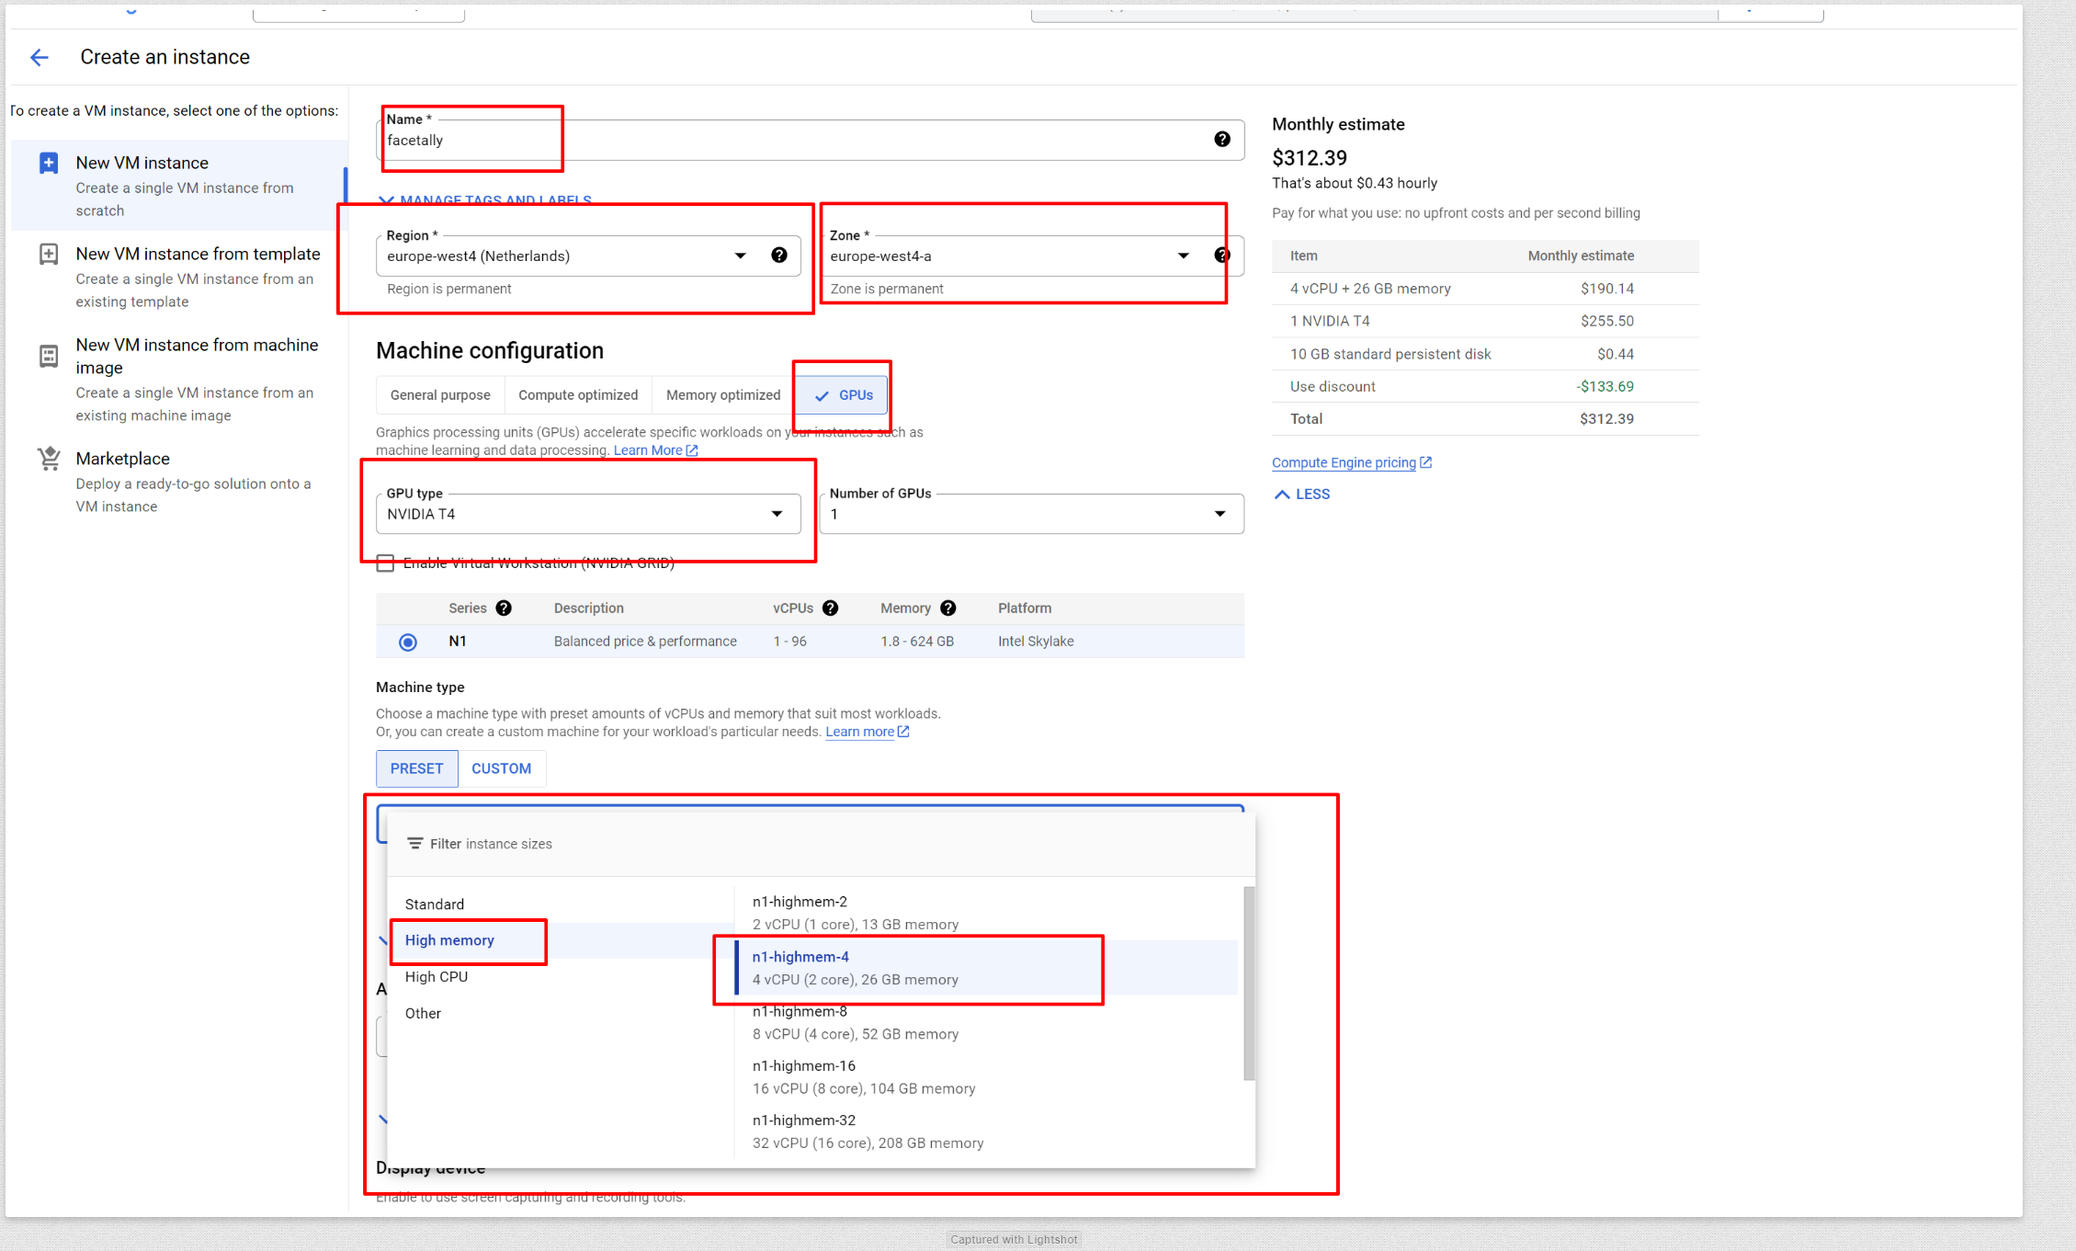
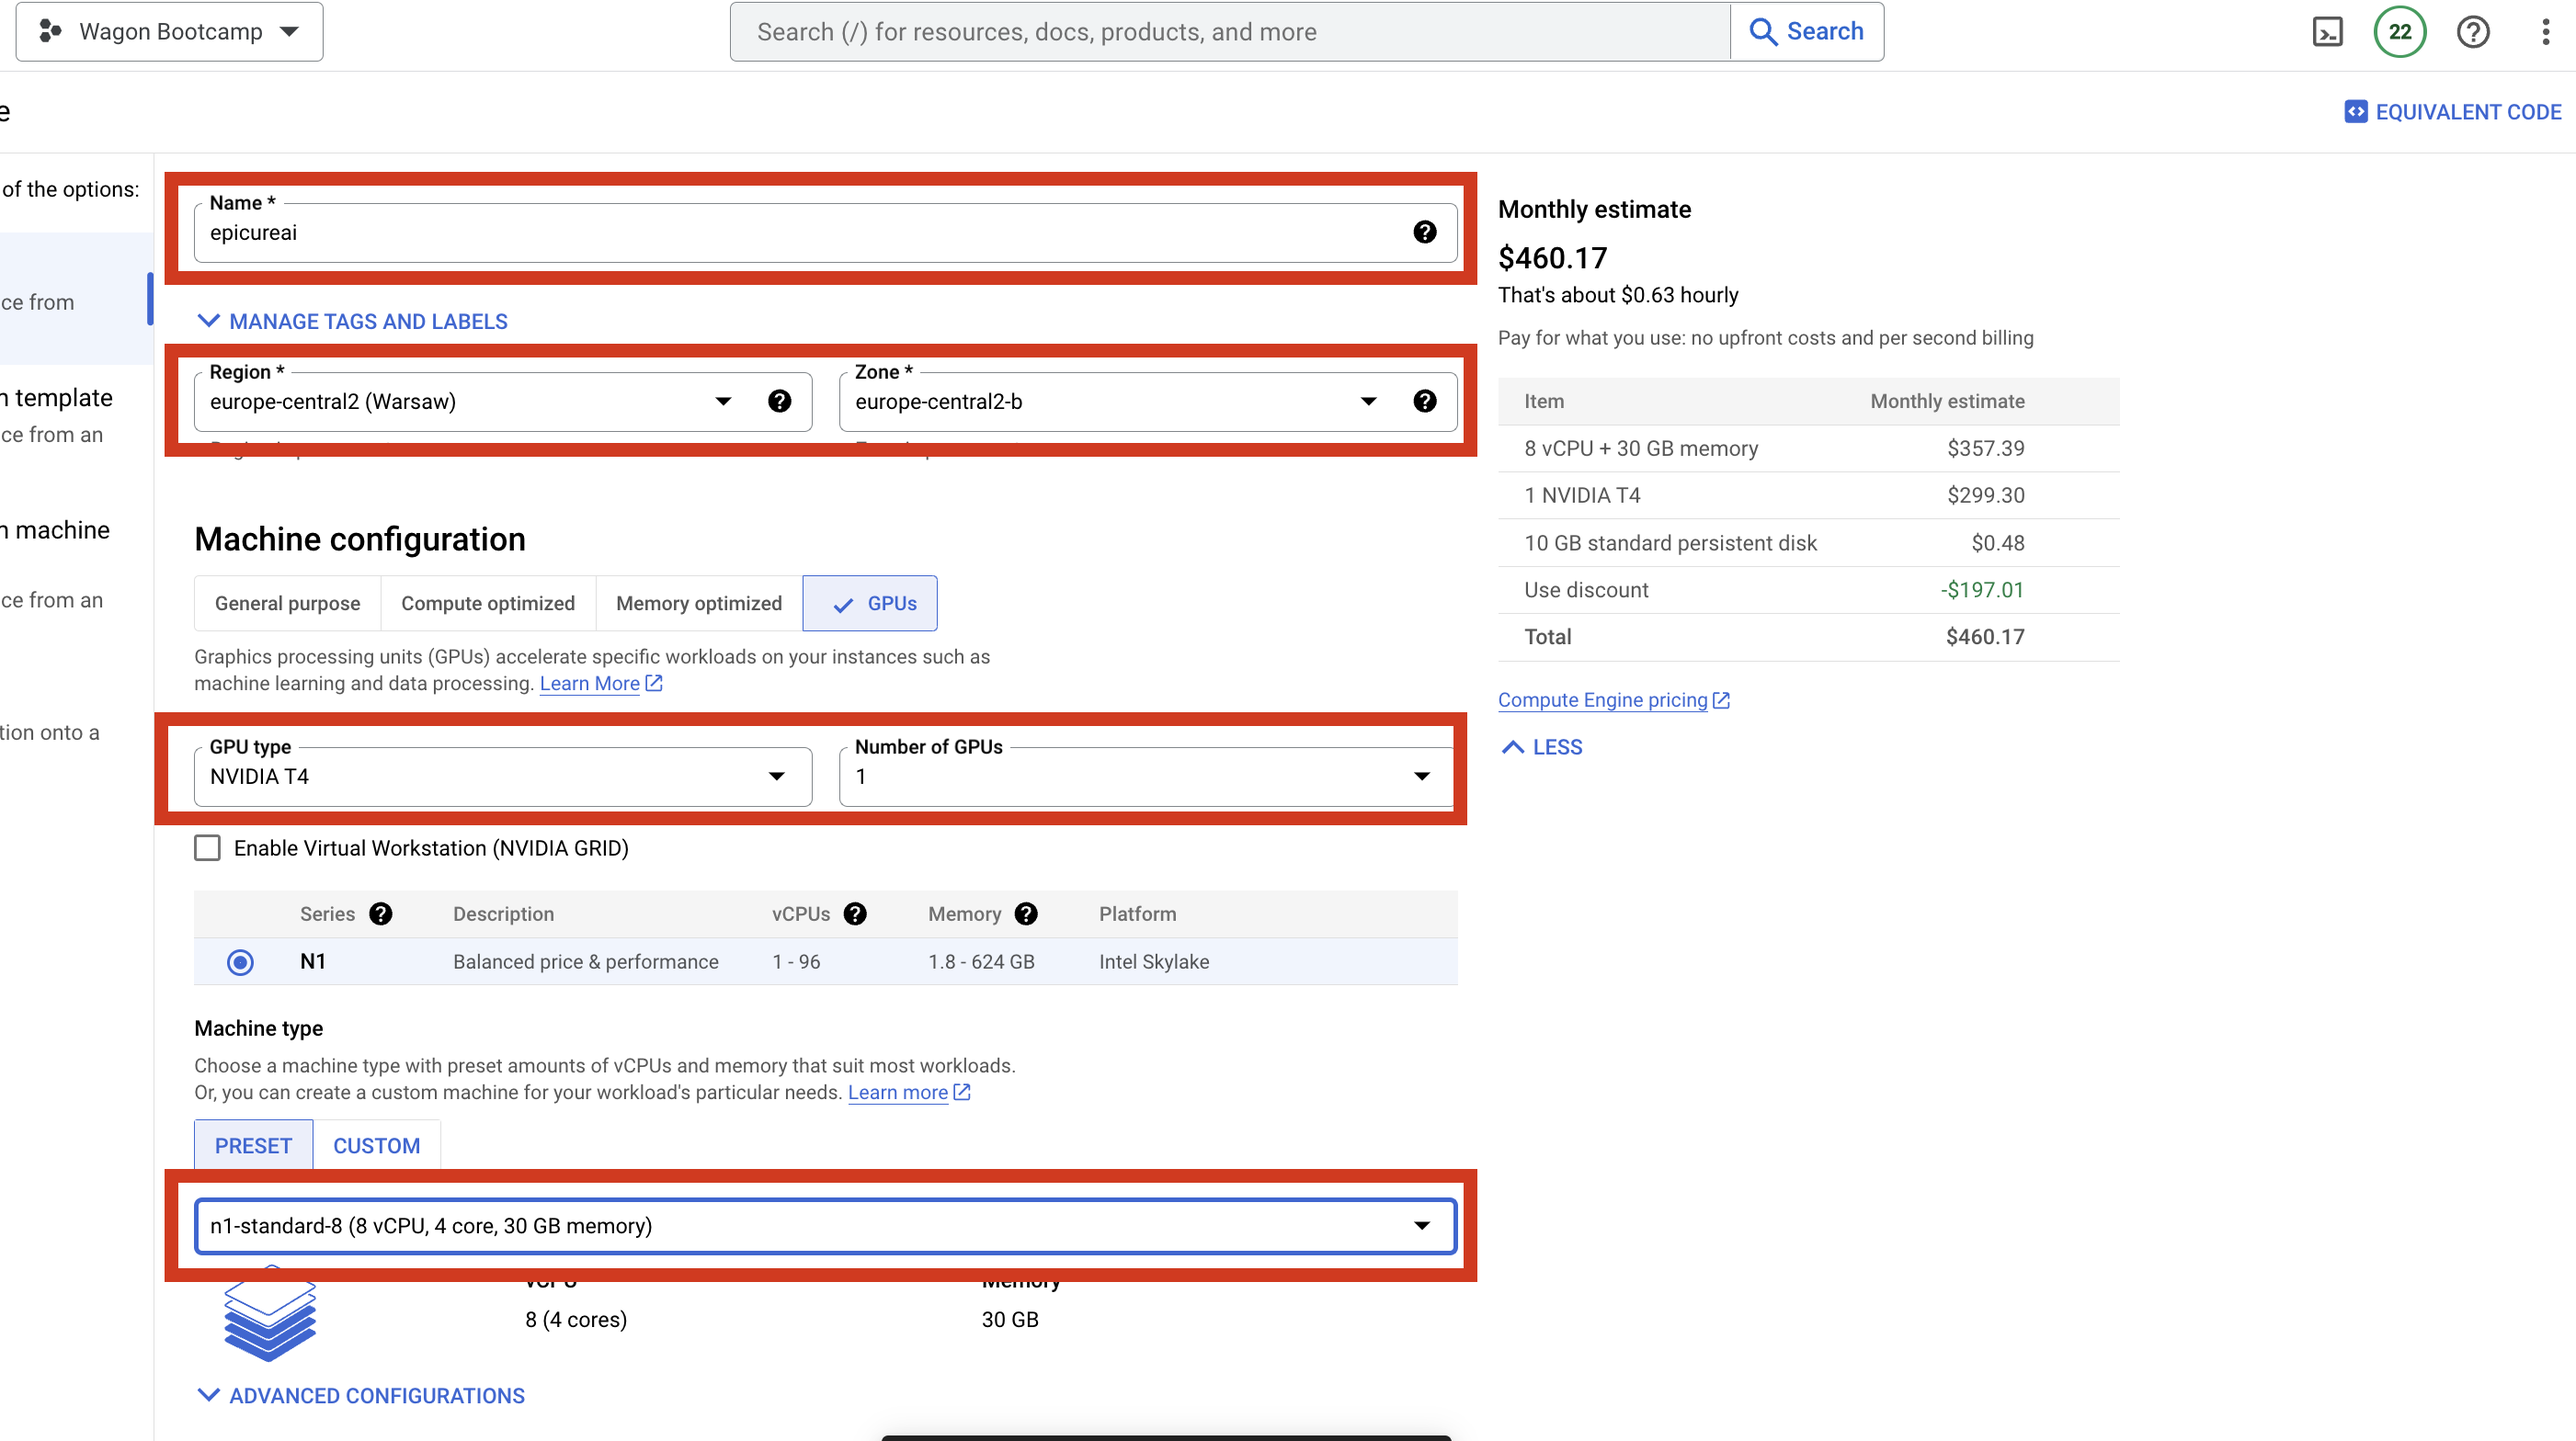
new comments

diff --git a/README.md b/README.md
@@ -12,58 +12,64 @@ This README provides a step-by-step guide to setting up a GPU-enabled environmen
 
 ## Requesting GPU Quota from Google Cloud
 
-- Navigate to [Google Cloud Quotas Page](https://console.cloud.google.com/iam-admin/quotas).
+- Navigate to the [Google Cloud Quotas Page](https://console.cloud.google.com/iam-admin/quotas).
   ![Google Cloud Quotas Page](screenshots/image1.png)
-- Search for "T4 GPU" and select "Commited NVIDIA T4 GPUs".
+- Search for "T4 GPU" and select "Committed NVIDIA T4 GPUs".
   ![T4 GPU Selection](screenshots/image2.png)
 - Choose all European regions and click 'Edit Quotas'.
 - In the request form, specify you need 1 GPU and provide a brief description of your project.
 
 ## Creating a Dockerfile for Training
 
-- Name the Dockerfile as `Dockerfile.training`.
-- We have to have two different Dockerfiles as they surve different purposes and usually prediction Dockerfile is much lighter as it only needs to run prediction function. You will find example of DockerImage in this repo.
+- Name the Dockerfile `Dockerfile.training`.
+- Two different Dockerfiles are required as they serve different purposes: the training Dockerfile and the prediction Dockerfile. The latter is usually lighter as it only needs to run the prediction function. An example Dockerfile for Ultralytics is provided in this repository.
+
+## Securely Passing Credentials to a Remote Docker Container
+
+- [Details to be added]
 
 ## Setting Up Continuous Deployment
 
-In order to avoid monopolizing our own machine or beeing dependant on the chips our machine is using, it is better to set up CD, so that each time you push to master it redeploys you image in cloud and starts/continues training.
+Setting up Continuous Deployment ensures that every push to master automatically redeploys your image in the cloud and starts/continues training, making your machine's resources and chipset irrelevant.
 
-- Access Artifact Registry - search for it in the Google Console Search panel on the top.
-- You should see this page, select "Create repository" on the top of your page
-  ![image](screenshots/image12.png)
-- Specify your project name and region like this
-  ![region](screenshots/image13.png)
-
-- Access [Cloud Build in Google Cloud](https://console.cloud.google.com/cloud-build). Press enable if it is not enabled yet.
-- Select "repositories" and then "connect repositories"
-  ![connect repositories](screenshots/image9.png)
-- Select your repository
-  ![repo](screenshots/image10.png)
-- Configure the image name and other settings as showed on screen (change your project names).
-  ![git](screenshots/image11.png)
-  Example of image name:
-  europe-southwest1-docker.pkg.dev/$PROJECT_ID/facetally/facetally_image:latest
-- Run the build .
-  ![run](screenshots/image14.png)
-- Monitor the process in the 'History' tab - if you press on the id you will see all of the process and errors if any.
-  ![error](screenshots/image15.png)
-- After the process will be finished your Image will be pushed to Artifact registry (where all your images are beeing stored)
+- Access the Artifact Registry - search for it in the Google Console Search panel at the top.
+- You should see this page, click "Create repository" at the top.
+  ![Artifact Registry](screenshots/image12.png)
+- Specify your project name and region as shown.
+  ![Region Selection](screenshots/image13.png)
+- Access [Cloud Build in Google Cloud](https://console.cloud.google.com/cloud-build). Enable it if not already enabled.
+- Select "repositories" then "connect repositories".
+  ![Connect Repositories](screenshots/image9.png)
+- Choose your repository.
+  ![Select Repository](screenshots/image10.png)
+- Configure the image name and other settings as shown (replace with your project names).
+  ![Configuration](screenshots/image11.png)
+  Example of image name: `europe-southwest1-docker.pkg.dev/$PROJECT_ID/facetally/facetally_image:latest`
+- Start the build process.
+  ![Start Build](screenshots/image14.png)
+- Monitor the process in the 'History' tab. Click on the ID to view the entire process and any errors.
+  ![Monitor Build](screenshots/image15.png)
+- Once completed, your Image will be pushed to the Artifact Registry, where all your images are stored.
 
 ## Creating a Virtual Instance with GPU
 
-- Go to [Google Cloud VM Instances](https://console.cloud.google.com/compute/instances).
+- Go to [Google Cloud VM Instances](https://console.cloud.google.com/compute/instances). Click 'Create instance' and select options as follows:
   ![Google Cloud VM Instances](screenshots/image6.png)
-- Create a new instance, ensuring to select 'Deploy Container' and enter the Docker image name.
-  ![Deploy Container](screenshots/image7.png)
-- Set environmental variables as required.
-  ![Environmental Variables](screenshots/image8.png)
-- Choose the appropriate boot disk size and other configurations.
+- Click 'Change boot disk'.
+  ![Change Boot Disk](screenshots/image16.png)
+- Select options as shown.
+  ![Disk Options](screenshots/image17.png)
+- Wait for the green checkmark, then press 'SSH'.
+  ![Press SSH](screenshots/image18.png)
+- Accept the installation of NVIDIA drivers and wait a few minutes.
+  ![NVIDIA Drivers](screenshots/image19.png)
+- Authorize Docker: `gcloud auth configure-docker europe-southwest1-docker.pkg.dev`
+- Pull the Docker image: `docker pull europe-southwest1-docker.pkg.dev/wagon-bootcamp-355610/epicureai/epicureai_image:latest`
+- Run Docker: `docker run --shm-size=8g -d -e COMET_API_KEY=prlR2lPFdkjoiWB2n8SKwhvq0 -e EPOCHS=100 -e COMET_PROJECT_NAME=epicure -e COMET_MODEL_NAME=yolo-model -e COMET_WORKSPACE_NAME=poloniki --gpus all europe-southwest1-docker.pkg.dev/wagon-bootcamp-355610/epicureai/epicureai_image:latest`
+  Make sure to specify `--shm-size=8g` and `--gpus all` to enable GPU and increase shared memory.
+  Replace all project names,api keys, model names and etc, with your own!
 
-Remember to use the command line for similar operations if preferred. Detailed instructions are provided.
-
-### Note
-
-Ensure to structure and elaborate each section according to the specific steps and details of your project.
+Model will be trained in cloud and restart the image if smth breaks, also update the image whenever we will make any changes. Each new train will load best weights so far.
 
 ### SEPARATE QUESTION
 

diff --git a/gcloud.md b/gcloud.md
@@ -1,0 +1,5 @@
+gcloud compute instances create-with-container epicureai --project=wagon-bootcamp-355610 --zone=europe-central2-b --machine-type=n1-standard-8 --network-interface=network-tier=PREMIUM,subnet=default --maintenance-policy=TERMINATE --provisioning-model=STANDARD --service-account=1047329738761-compute@developer.gserviceaccount.com --scopes=https://www.googleapis.com/auth/devstorage.read_only,https://www.googleapis.com/auth/logging.write,https://www.googleapis.com/auth/monitoring.write,https://www.googleapis.com/auth/servicecontrol,https://www.googleapis.com/auth/service.management.readonly,https://www.googleapis.com/auth/trace.append --accelerator=count=1,type=nvidia-tesla-t4 --image=projects/cos-cloud/global/images/cos-stable-109-17800-66-27 --boot-disk-size=100GB --boot-disk-type=pd-standard --boot-disk-device-name=epicureai --container-image=europe-southwest1-docker.pkg.dev/wagon-bootcamp-355610/epicureai/epicureai_image --container-restart-policy=always --container-env=COMET_API_KEY=prlR2lPFdkjoiWB2n8SKwhvq0,EPOCHS=100 --no-shielded-secure-boot --shielded-vtpm --shielded-integrity-monitoring --labels=goog-ec-src=vm_add-gcloud,container-vm=cos-stable-109-17800-66-27
+
+gcloud compute instances create epicureai --project=wagon-bootcamp-355610 --zone=europe-central2-b --machine-type=n1-standard-4 --network-interface=network-tier=PREMIUM,stack-type=IPV4_ONLY,subnet=default --maintenance-policy=TERMINATE --provisioning-model=STANDARD --service-account=1047329738761-compute@developer.gserviceaccount.com --scopes=https://www.googleapis.com/auth/devstorage.read_only,https://www.googleapis.com/auth/logging.write,https://www.googleapis.com/auth/monitoring.write,https://www.googleapis.com/auth/servicecontrol,https://www.googleapis.com/auth/service.management.readonly,https://www.googleapis.com/auth/trace.append --accelerator=count=1,type=nvidia-tesla-t4 --create-disk=auto-delete=yes,boot=yes,device-name=epicureai,image=projects/ml-images/global/images/c2-deeplearning-pytorch-1-10-cu110-v20220227-debian-10,mode=rw,size=100,type=projects/wagon-bootcamp-355610/zones/europe-central2-b/diskTypes/pd-standard --no-shielded-secure-boot --shielded-vtpm --shielded-integrity-monitoring --labels=goog-ec-src=vm_add-gcloud --reservation-affinity=any
+
+c0-deeplearning-common-cu121-v20231105-debian-11 SCSI
